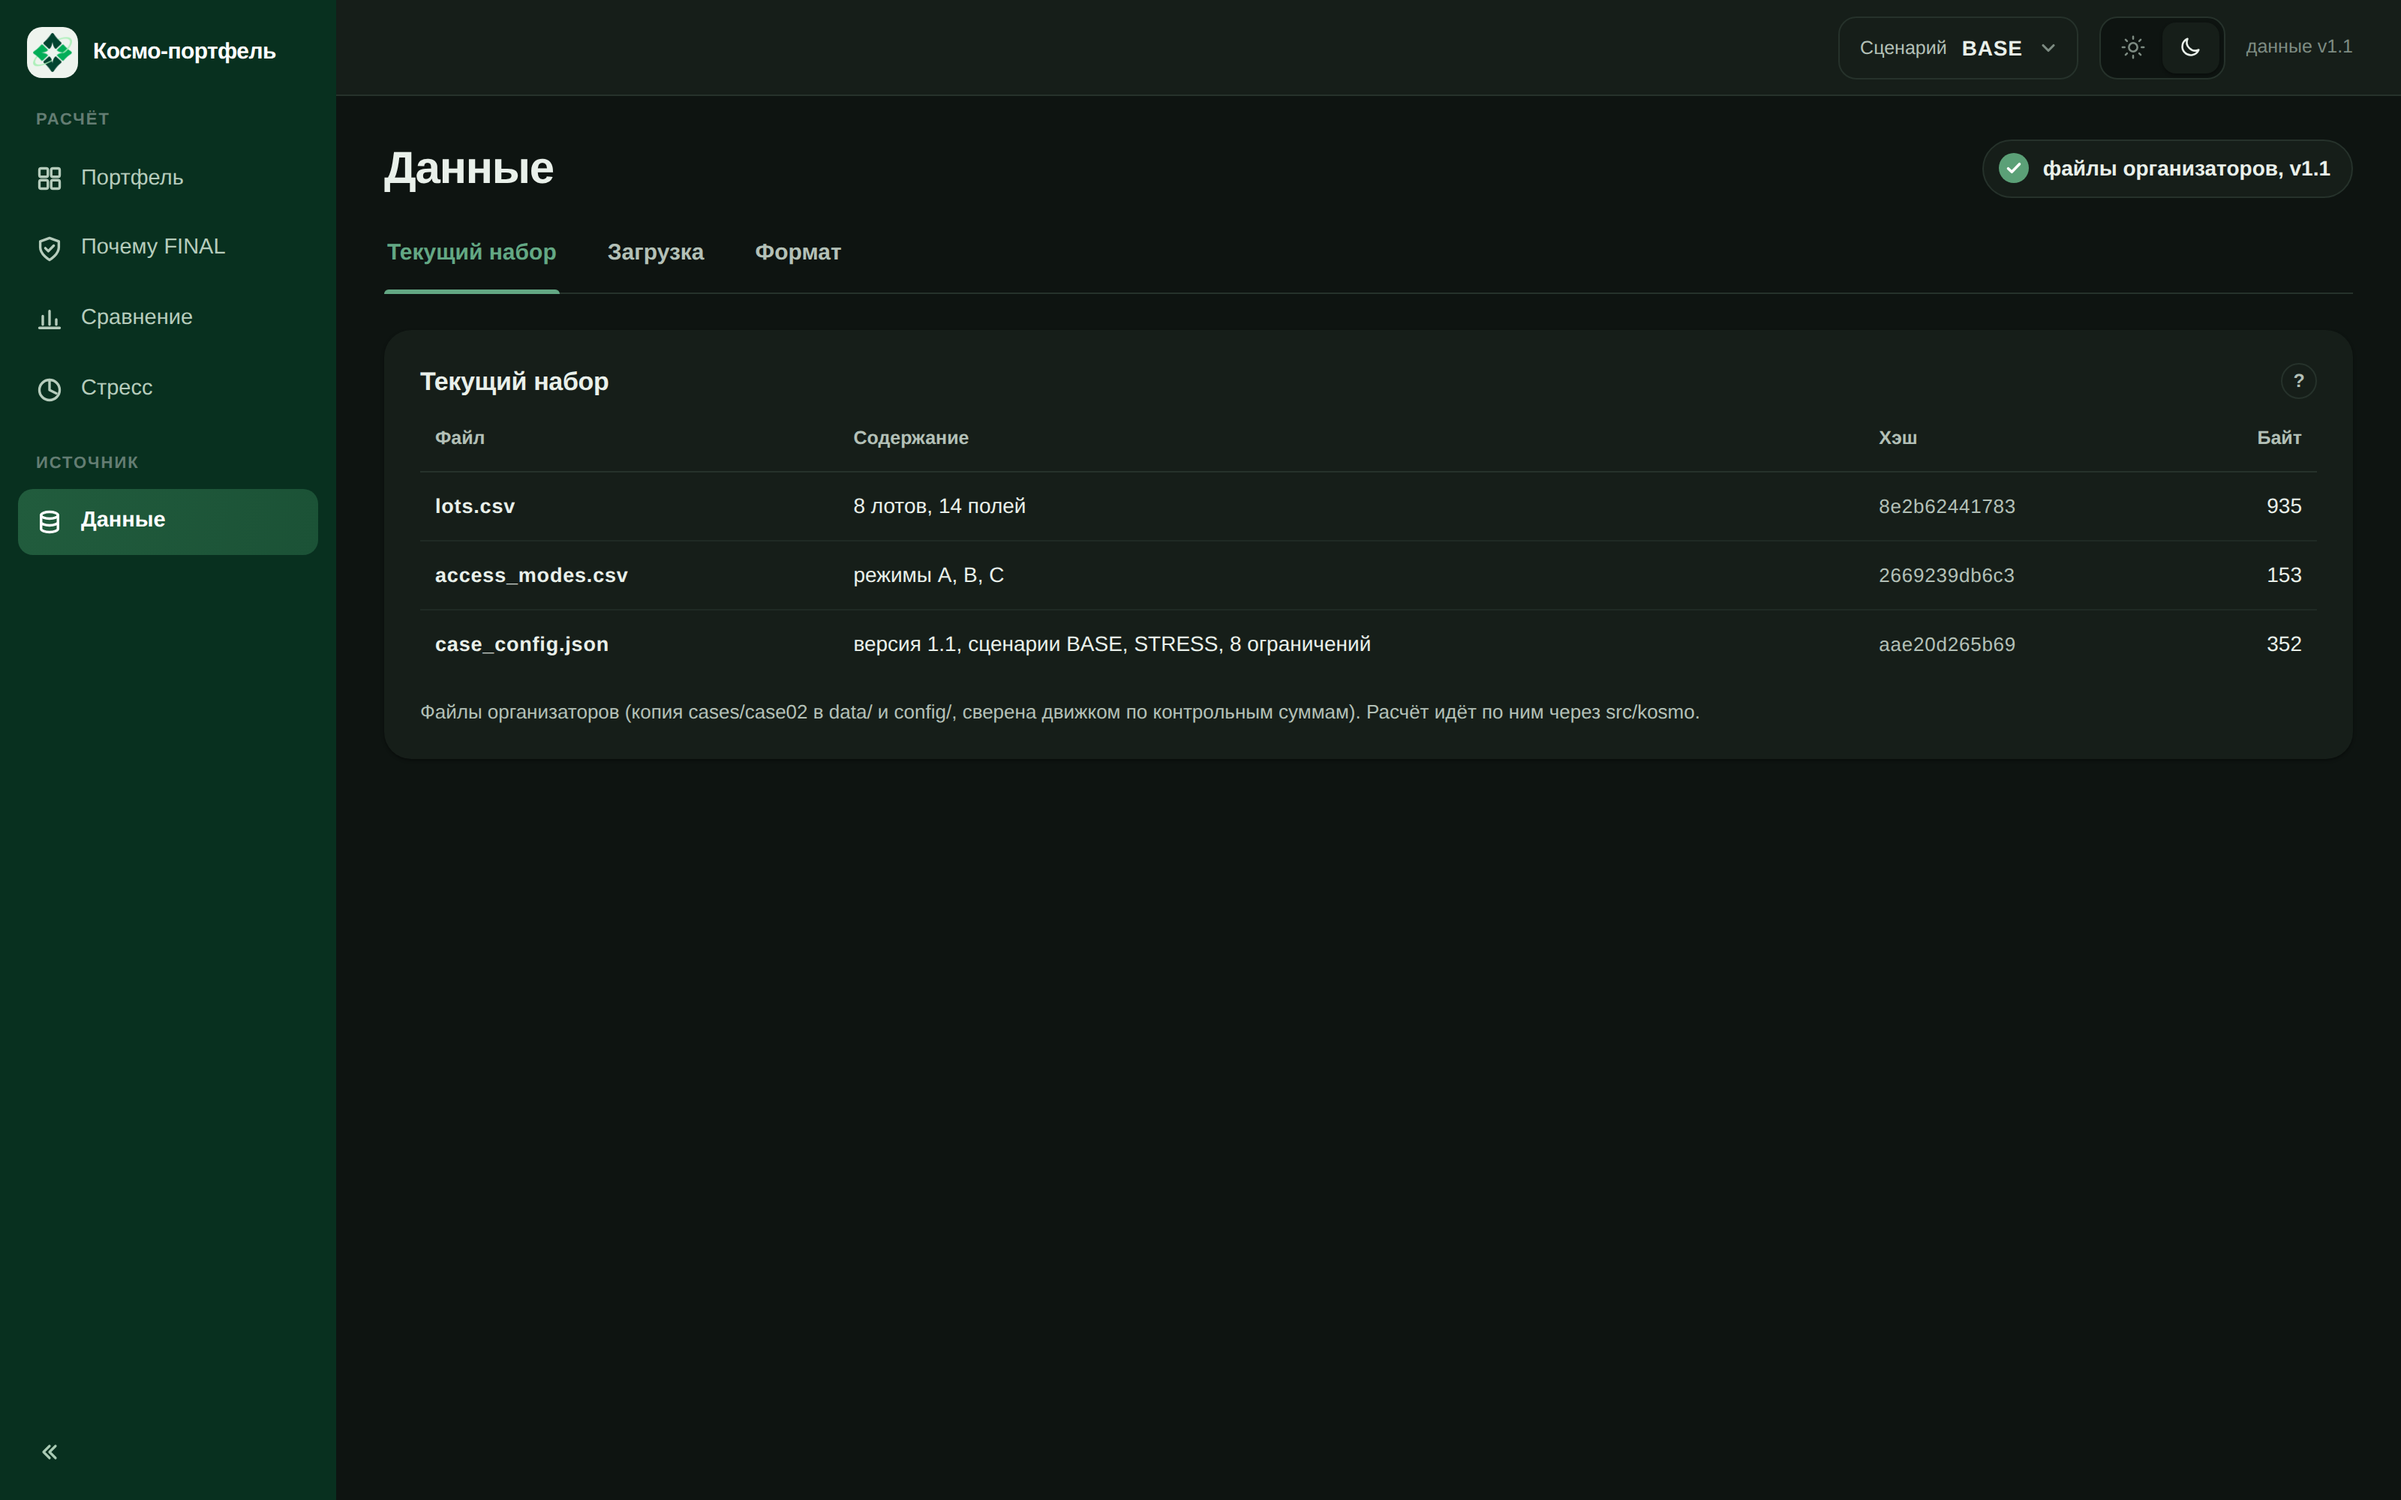
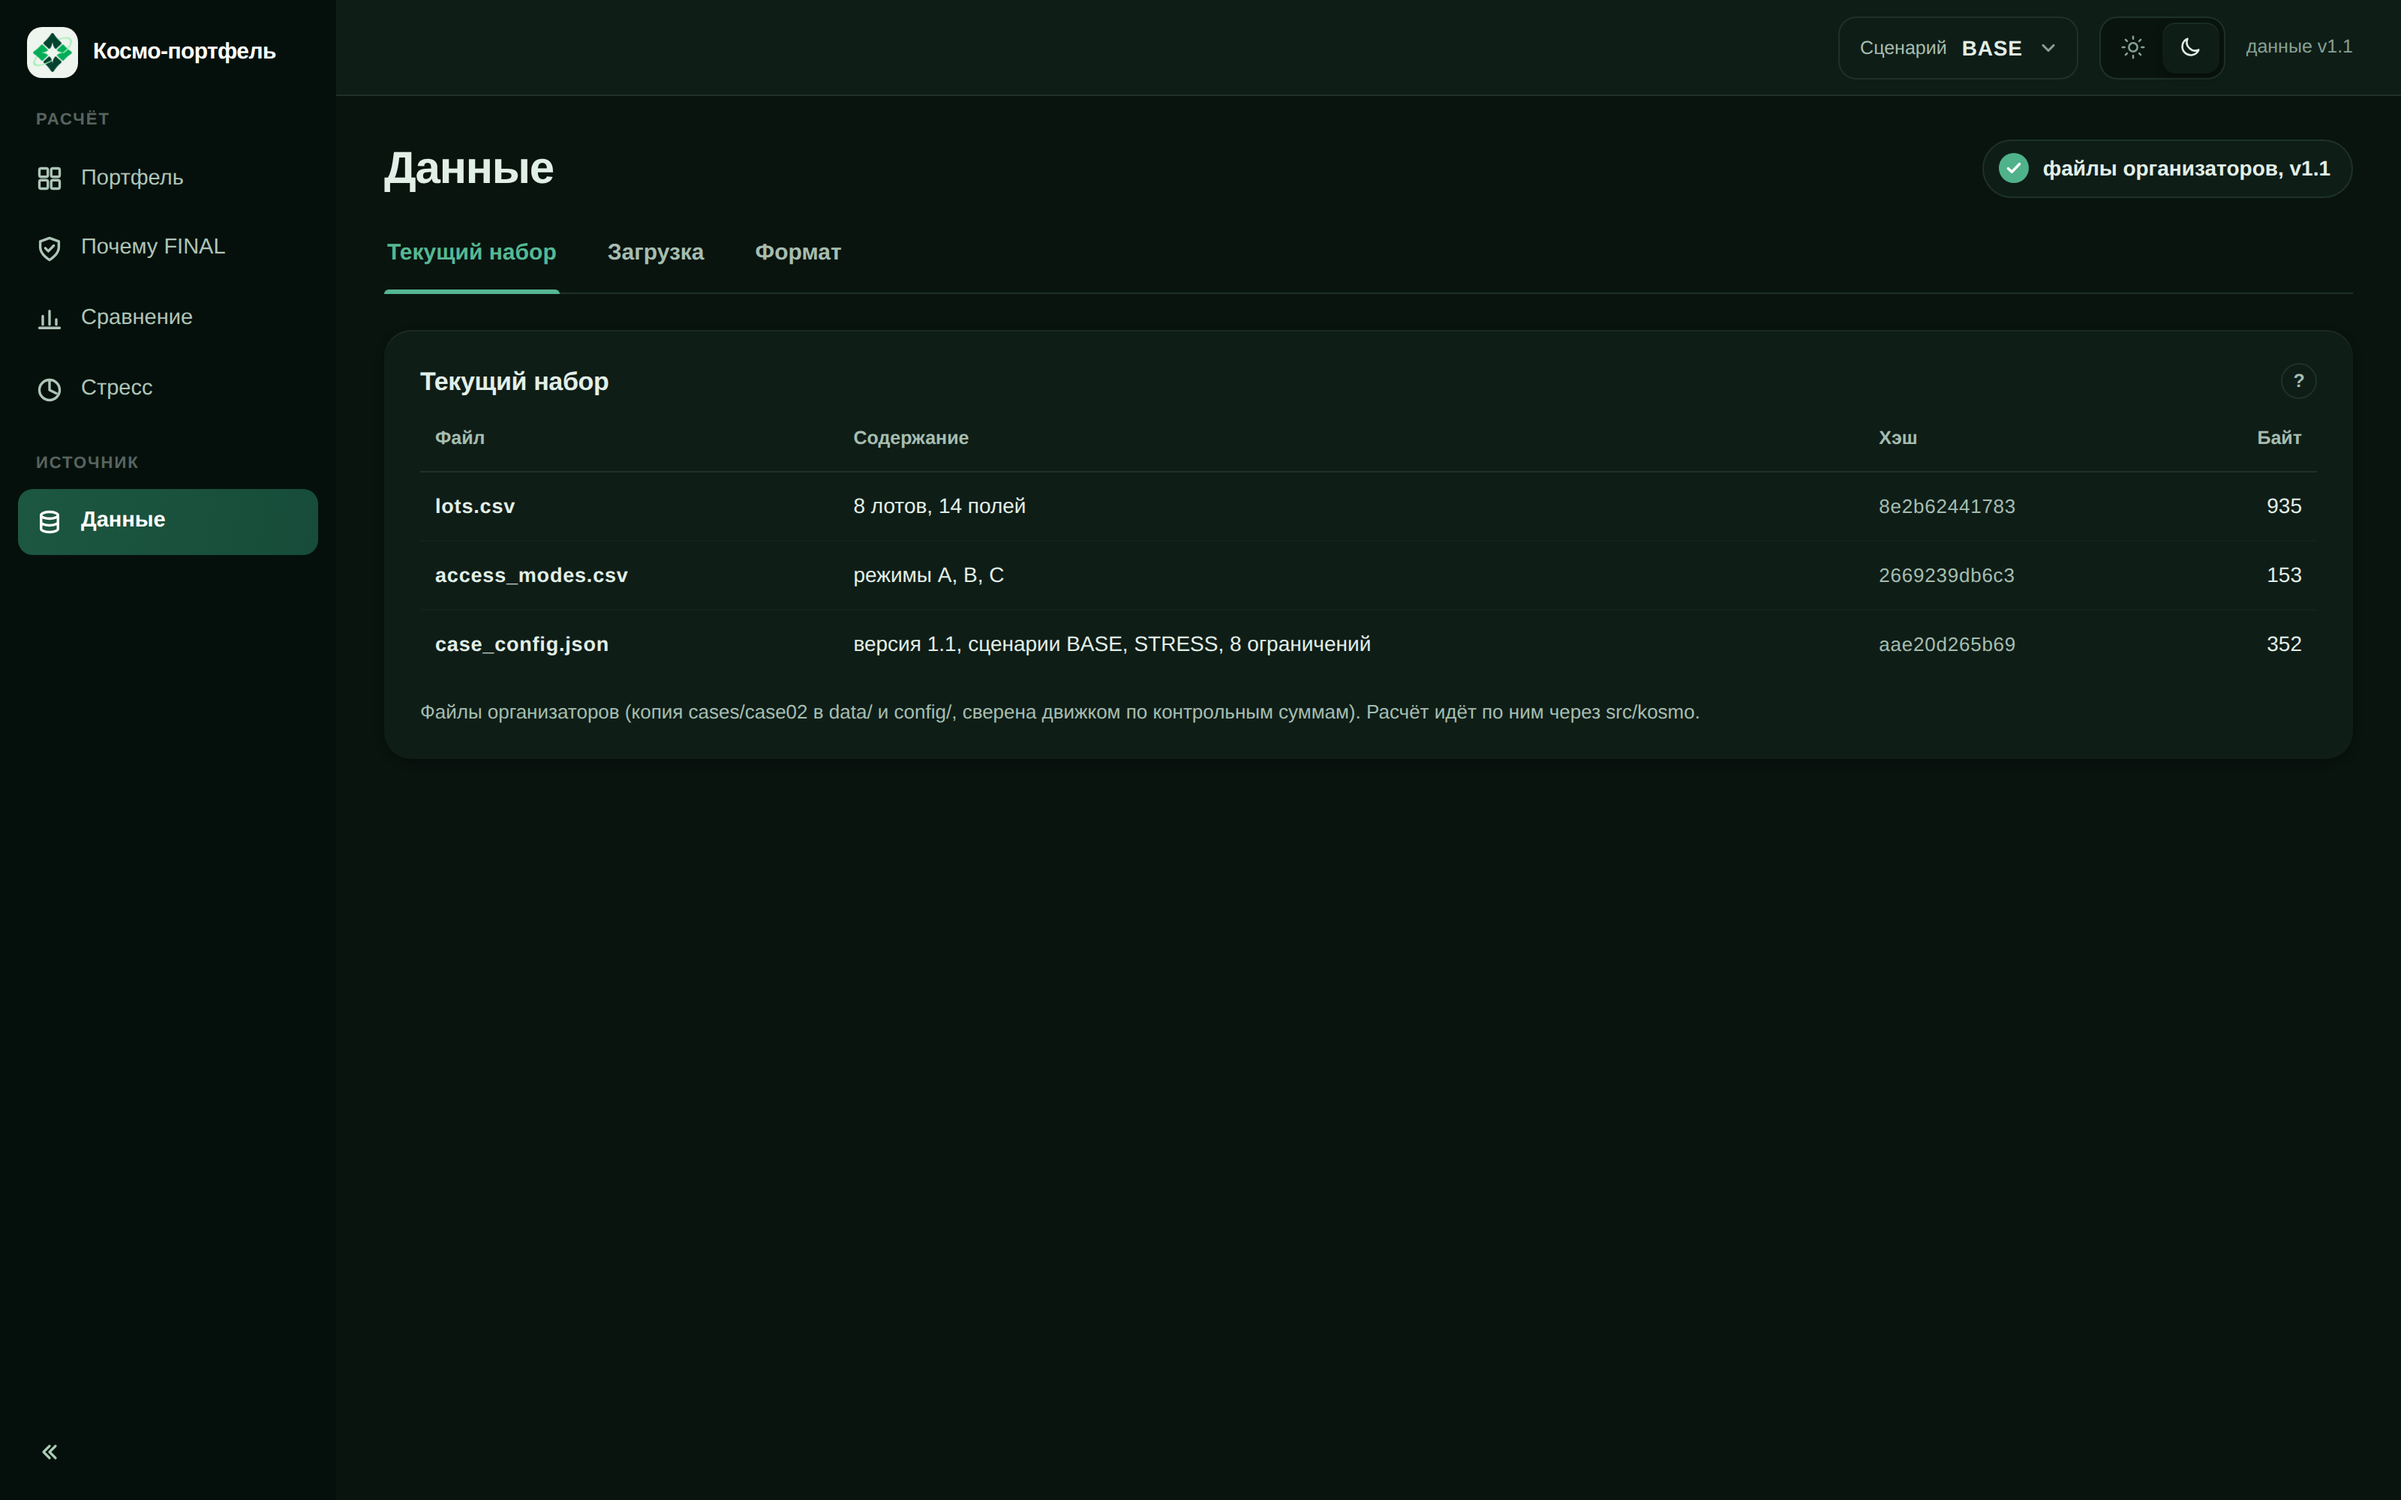
Repaint the dark theme in green ink with brass on the surplus
Тёмная тема была ровной зелёной заливкой: фон, панели, боковая панель и чипы
держали один оттенок, поэтому зелёный ничего не выделял. Теперь фон глубже и
холоднее (#09140f), зелёный работает сигналом — FINAL, «пройдено», активный
пункт, код лота, — а запас и «сверх порога» уходят в тёплую латунь, и шкала
в плитках читается по температуре, а не только по длине.

Рельеф панелей даёт верхняя кромка в --shadow-sm: рамок у них нет с прошлой
правки, и ступени светлоты остались единственным разделителем уровней.

Правка только в токенах :root[data-theme="dark"]: разметка, раскладка и
светлая тема не тронуты. Самая слабая пара «текст / подложка» поднялась
с 4.8 : 1 до 6.2 : 1 по WCAG 2.1.

Claude-Session: https://claude.ai/code/session_01LMQeAvsAnxX8c939V1Ux34

Changed region(s): [[0.0, 0.0, 0.1562, 1.0]]

diff --git a/app/static/styles.css b/app/static/styles.css
@@ -13,15 +13,18 @@
   --f-num:"Montserrat","Segoe UI",Arial,sans-serif;
   --f-code:"Montserrat","Segoe UI",Arial,sans-serif;
   --code-tracking:.03em;}
+/* Тёмная тема — «зелёные чернила»: фон глубокий и холодный, зелёный работает сигналом,
+   а запас и «сверх порога» уходят в тёплую латунь, чтобы шкала читалась по температуре.
+   Рельеф даёт только верхняя кромка панели в --shadow-sm: рамок у панелей нет. */
 :root[data-theme="dark"]{color-scheme:dark;
-  --bg:#0e1411;--surface:#161e19;--surface-2:#1b2520;--ink:#e9f0ea;--ink-2:#b3c0b7;--muted:#7d8b82;--rule:#26322b;--rule-2:#1f2a24;
-  --brand:#63a884;--brand-soft:#1b2c23;--on-brand:#08130d;--accent:#63a884;
-  --good:#5ba077;--good-soft:#1a2a21;--good-ink:#a8c9b5;
-  --crit:#c9705f;--crit-soft:#2e201e;--crit-ink:#e0aca3;
-  --warn:#c19a4c;--warn-soft:#2c271a;--warn-ink:#d8c391;
-  --side:#08301f;--side-ink:#b6ccbc;--side-dim:rgba(255,255,255,.38);--side-on-1:#215c3d;--side-on-2:#1b5236;--side-hover:rgba(255,255,255,.07);
-  --seg-a:#3d7357;--seg-b:#7aa891;--hl-chip:#23362b;--s1:#5f9c79;--s2:#b8904f;
-  --shadow:0 12px 32px rgba(0,0,0,.55);--shadow-sm:0 1px 2px rgba(0,0,0,.4);}
+  --bg:#09140f;--surface:#0f1d17;--surface-2:#17271f;--ink:#e2efe7;--ink-2:#a5bdb0;--muted:#86a094;--rule:#1e3228;--rule-2:#142219;
+  --brand:#55b894;--brand-soft:#123028;--on-brand:#03130c;--accent:#55b894;
+  --good:#4fb28a;--good-soft:#102b23;--good-ink:#9ed3bb;
+  --crit:#cc7468;--crit-soft:#2d1e1b;--crit-ink:#e6b2a9;
+  --warn:#c39e53;--warn-soft:#2a2417;--warn-ink:#ddc795;
+  --side:#05100c;--side-ink:#aec5b8;--side-dim:rgba(226,239,231,.4);--side-on-1:#1c5741;--side-on-2:#164c39;--side-hover:rgba(255,255,255,.07);
+  --seg-a:#2f7a5f;--seg-b:#b8904f;--hl-chip:#163128;--s1:#55b894;--s2:#b8904f;
+  --shadow:0 14px 36px rgba(0,0,0,.55);--shadow-sm:inset 0 1px 0 rgba(190,240,214,.07),0 2px 6px rgba(0,0,0,.35);}
 *{box-sizing:border-box}
 html,body{margin:0;background:var(--bg);color:var(--ink);font-family:var(--f-ui);font-size:14px;line-height:1.5}
 a{color:var(--brand);text-decoration:none}a:hover{color:var(--accent)}
@@ -81,6 +84,16 @@ button{font-family:inherit}
 .tsw button{width:38px;height:34px;border:0;border-radius:9px;background:transparent;color:var(--muted);display:grid;place-items:center;cursor:pointer}
 .tsw button:hover{color:var(--ink)}
 .tsw button.on{background:var(--surface);color:var(--ink);box-shadow:var(--shadow-sm)}
+/* смена темы: круг раскрывается от кнопки (радиус считает app.js), поэтому
+   стандартное растворение View Transitions выключаем — иначе оно накладывается */
+::view-transition-old(root),::view-transition-new(root){animation:none}
+/* запасной путь там, где View Transitions нет: переход цвета живёт только во время смены,
+   постоянных переходов на всём дереве не остаётся */
+html.theming,html.theming *:not(svg *){transition:background-color .24s ease,border-color .24s ease,color .24s ease,fill .24s ease,box-shadow .24s ease}
+@media (prefers-reduced-motion: reduce){
+  html.theming,html.theming *{transition:none !important}
+  ::view-transition-group(*),::view-transition-old(*),::view-transition-new(*){animation:none !important}
+}
 .tsw svg{width:17px;height:17px}
 
 /* ---- страница ---- */
